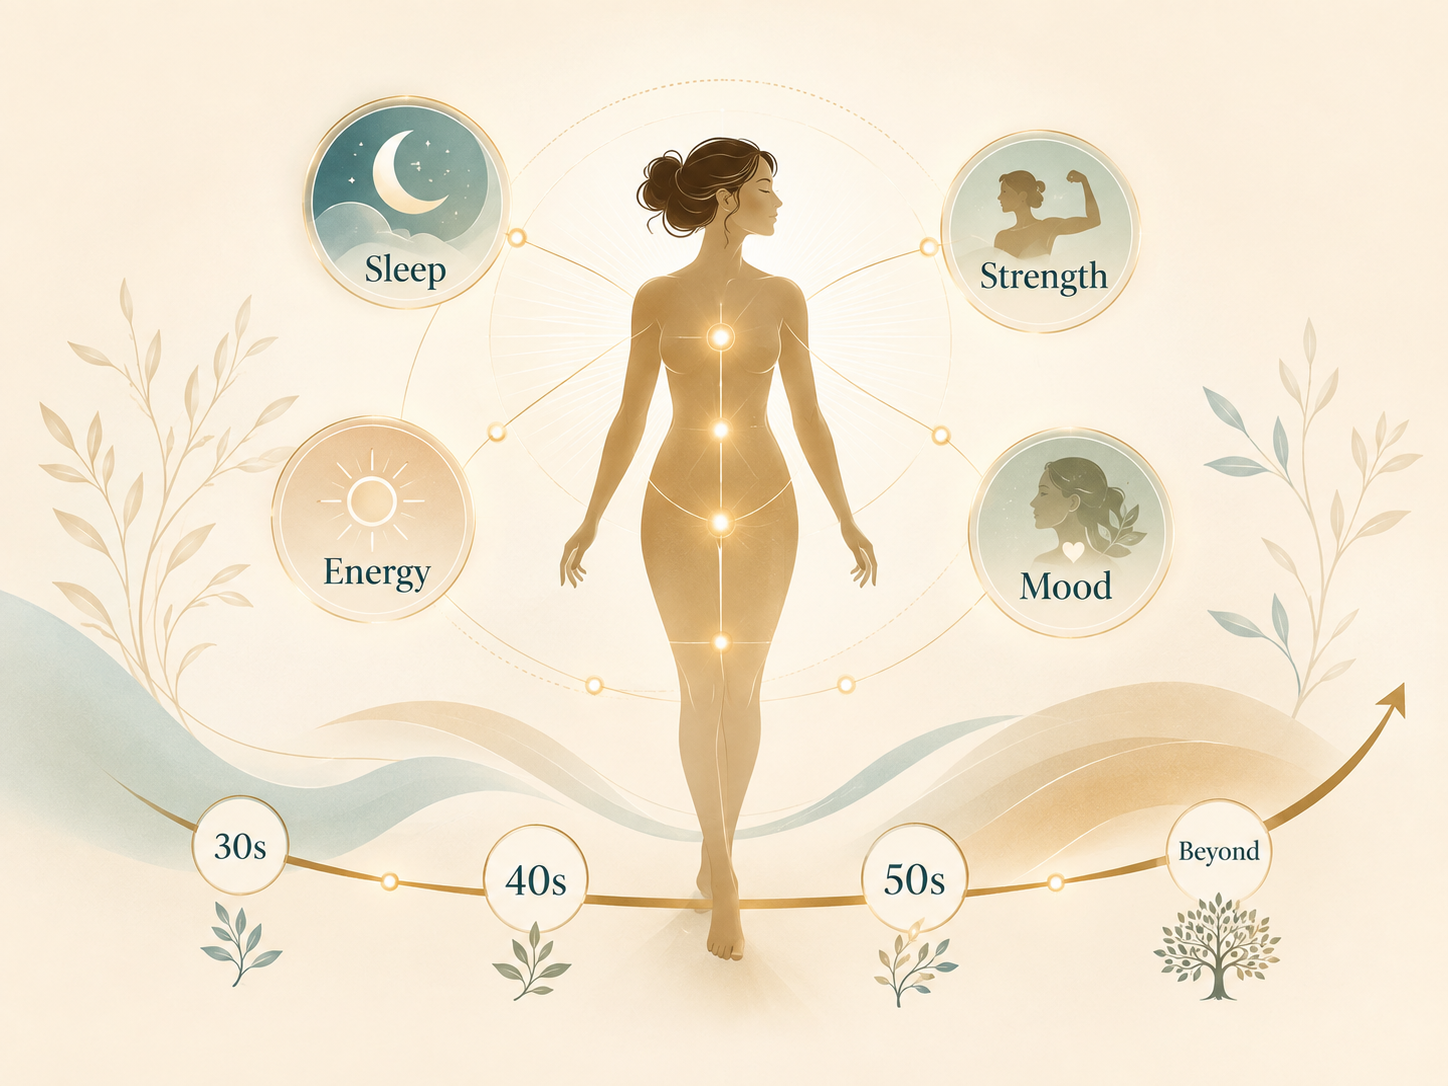
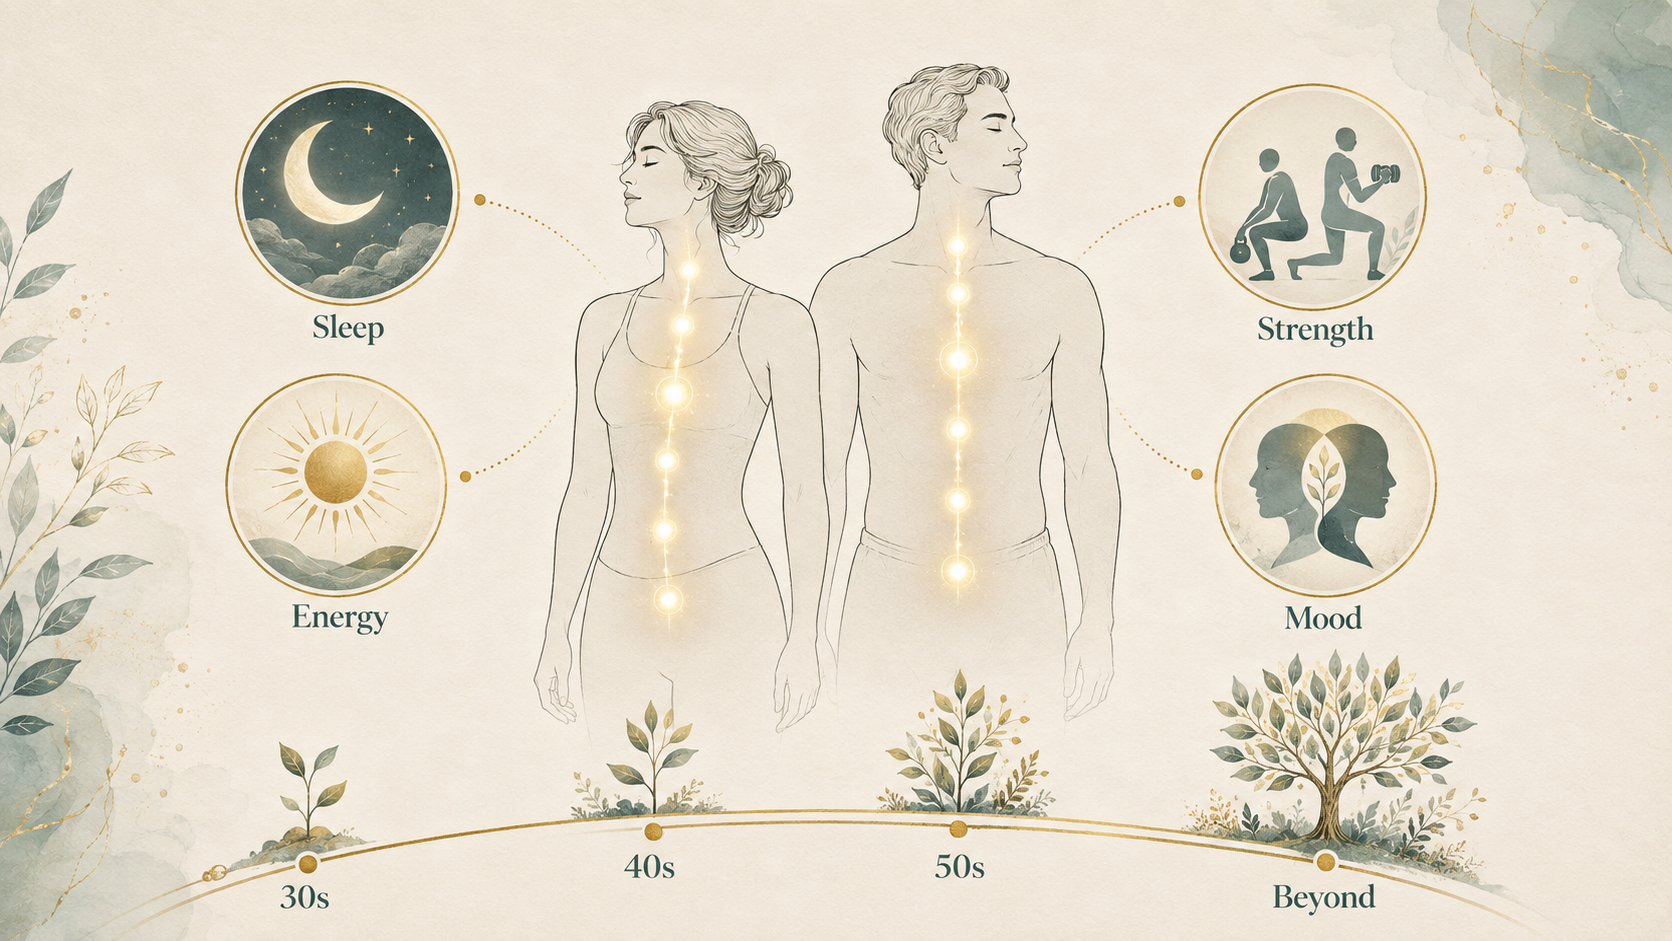
Polish hormones blog with inclusive imagery and gender cue bolding.

diff --git a/src/components/arc/pages/InsightDetailContent.tsx b/src/components/arc/pages/InsightDetailContent.tsx
@@ -71,6 +71,22 @@ const PROSE =
 const SECTION_HEADING =
   "font-title-emphasis font-normal not-italic text-[clamp(2.25rem,6vw,3.25rem)] leading-[0.95] tracking-tight text-arc-teal-ink text-pretty";
 
+/** Lightweight `**bold**` markers in CMS copy (e.g. gender cues: **women** / **men**). */
+function renderProseInline(text: string) {
+  const parts = text.split(/(\*\*[^*]+\*\*)/g);
+  return parts.map((part, i) => {
+    const bold = /^\*\*([^*]+)\*\*$/.exec(part);
+    if (bold) {
+      return (
+        <strong key={i} className="font-semibold text-arc-charcoal">
+          {bold[1]}
+        </strong>
+      );
+    }
+    return <span key={i}>{part}</span>;
+  });
+}
+
 /** Prefer a break after `:` on laptop+ so decade titles don’t orphan the number. */
 function SectionHeading({
   title,
@@ -97,7 +113,7 @@ function ProseBlock({ paragraphs }: { paragraphs: readonly string[] }) {
     <div className="space-y-4">
       {paragraphs.map((paragraph, i) => (
         <p key={`${paragraph.slice(0, 28)}-${i}`} className={PROSE}>
-          {paragraph}
+          {renderProseInline(paragraph)}
         </p>
       ))}
     </div>
@@ -302,7 +318,7 @@ function FaqRow({
       {reduceMotion ? (
         open ? (
           <div className="border-t border-arc-charcoal/10 px-4 pb-4 pt-0 sm:px-5">
-            <p className={PROSE}>{item.answer}</p>
+            <p className={PROSE}>{renderProseInline(item.answer)}</p>
           </div>
         ) : null
       ) : (
@@ -316,7 +332,7 @@ function FaqRow({
           className="overflow-hidden"
         >
           <div className="border-t border-arc-charcoal/10 px-4 pb-4 pt-3 sm:px-5">
-            <p className={PROSE}>{item.answer}</p>
+            <p className={PROSE}>{renderProseInline(item.answer)}</p>
           </div>
         </motion.div>
       )}

diff --git a/src/app/blogs/[slug]/page.tsx b/src/app/blogs/[slug]/page.tsx
@@ -80,7 +80,7 @@ function buildBlogJsonLd(entry: InsightEntry) {
         name: item.question,
         acceptedAnswer: {
           "@type": "Answer",
-          text: item.answer,
+          text: item.answer.replace(/\*\*([^*]+)\*\*/g, "$1"),
         },
       })),
     });
